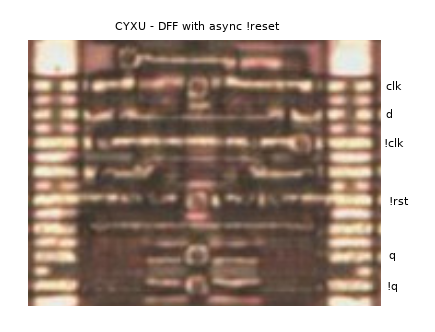
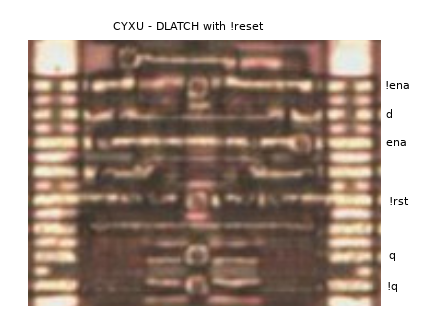
Fix description of latches and flip flops

Changed region(s): [[0.2391, 0.0602, 0.6575, 0.0904], [0.8667, 0.4217, 0.9563, 0.4518], [0.8667, 0.241, 0.9563, 0.2711]]

diff --git a/doc/dmg_cells.html b/doc/dmg_cells.html
@@ -120,12 +120,12 @@ all documented once and for all, to make life easier!</p>
  <li><a href="#ff">Storage elements</a>
   <ul>
    <li><a href="#srlatch">SR-LATCH</a></li>
-   <li><a href="#dlatch">DLATCH</a></li>
-   <li><a href="#dff">DFF</a></li>
+   <li><a href="#dlatch_a">D-LATCH - Variant A</a></li>
+   <li><a href="#dlatch_b">D-LATCH - Variant B</a></li>
+   <li><a href="#drlatch">DR-LATCH</a></li>
    <li><a href="#dffr_a">DFFR - Variant A</a></li>
    <li><a href="#dffr_b">DFFR - Variant B</a></li>
    <li><a href="#dffr_b2">DFFR - Variant B+</a></li>
-   <li><a href="#dffr_c">DFFR - Variant C</a></li>
    <li><a href="#dffsr">DFFSR</a></li>
    <li><a href="#tffd">TFFD</a></li>
   </ul>
@@ -738,30 +738,10 @@ just figured out the correct function of these cells.</p>
 <td>Inverted data output.</td></tr>
 </table></td></tr>
 </table>
-<h3 id="dlatch">DLATCH</h3>
+<h3 id="dlatch_a">D-LATCH - Variant A</h3>
 <p>Gated data latch.</p>
-<p>Name in <a href="https://github.com/furrtek/DMG-CPU-Inside">DMG-CPU-Inside</a>: LATCH</p>
-<table>
-<tr><td><img src="img/cells/zeca_desc.png" style="min-width:300px;" alt=""></td>
-<td><table class="default">
-<tr><th>I/O</th><th>Description</th></tr>
-<tr><td><i>d</i></td>
-<td>Data input.</td></tr>
-<tr><td><i>ena</i></td>
-<td>Active-high enable input. When high, the value at <i>d</i> transparently propagates through the latch. As soon
-as <i>ena</i> goes low, the output of the latch gets held at the level it had in that moment until <i>ena</i> goes
-high again.</td></tr>
-<tr><td><i>q</i></td>
-<td>Data output.</td></tr>
-<tr><td><i>!q</i></td>
-<td>Inverted data output.</td></tr>
-</table></td></tr>
-</table>
-<h3 id="dff">DFF</h3>
-<p>Single-edge-triggered data flip-flop.</p>
-<p>There are two clock inputs to this cell. They need to be inverted towards each other. There is usually an inverter
-cell nearby that generates the inverted clock. The flip-flop triggers on a positive edge of <i>clk</i> and a negative
-edge of <i>!clk</i>.</p>
+<p>There are two enable inputs to this cell. They need to be inverted towards each other. There is usually an inverter
+cell nearby that generates the inverted enable signal.</p>
 <p>There are instances of this cell that have their <i>!q</i> output stripped off. Those stripped cells can have an
 unrelated net run through the row where the <i>!q</i> output would have been. The cells named
 <a href="/dmg_cpu_b_map/?view=mytu">MYTU</a> and <a href="/dmg_cpu_b_map/?view=mofo">MOFO</a> are two
@@ -772,14 +752,13 @@ examples of that.</p>
 <td><table class="default">
 <tr><th>I/O</th><th>Description</th></tr>
 <tr><td><i>d</i></td>
-<td>Data input. Gets stored in the flip-flop on positive edge of <i>clk</i> and a simultanious negative edge
-of <i>!clk</i>.</td></tr>
-<tr><td><i>clk</i></td>
-<td>Positive clock input. On a positive edge the data input <i>d</i> gets stored in the flip-flop. There needs to be
-a negative edge on the <i>!clk</i> input at the same time.</td></tr>
-<tr><td><i>!clk</i></td>
-<td>Negative clock input. On a negative edge the data input <i>d</i> gets stored in the flip-flop. There needs to be
-a positive edge on the <i>clk</i> input at the same time.</td></tr>
+<td>Data input.</td></tr>
+<tr><td><i>ena</i></td>
+<td>Active-high enable input. When high, the value at <i>d</i> transparently propagates through the latch. As soon
+as <i>ena</i> goes low, the output of the latch gets held at the level it had in that moment until <i>ena</i> goes
+high again.</td></tr>
+<tr><td><i>!ena</i></td>
+<td>Active-low enable input. Must always be the inverse of <i>ena</i>.</td></tr>
 <tr><td><i>q</i></td>
 <td>Data output.</td></tr>
 <tr><td><i>!q</i></td>
@@ -961,29 +940,44 @@ a positive edge on the <i>clk</i> input at the same time.</td></tr>
 <a href="/dmg_cpu_b_map/?view=suny">SUNY</a>
 <a href="/dmg_cpu_b_map/?view=suto">SUTO</a>
 </p>
-<h3 id="dffr_a">DFFR - Variant A</h3>
-<p>Single-edge-triggered data flip-flop with active-low asynchronous reset.</p>
-<p>There are two clock inputs to this cell. They need to be inverted towards each other. There is usually an inverter
-cell nearby that generates the inverted clock. The flip-flop triggers on a positive edge of <i>clk</i> and a negative
-edge of <i>!clk</i>. It doesn't seem to matter which one of the two inputs gets slightly delayed by the inverter,
-it works both ways.</p>
-<p><i>TODO: Not really sure about clock input polarity.</i></p>
+<h3 id="dlatch_b">D-LATCH - Variant B</h3>
+<p>Gated data latch.</p>
+<p>Name in <a href="https://github.com/furrtek/DMG-CPU-Inside">DMG-CPU-Inside</a>: LATCH</p>
+<table>
+<tr><td><img src="img/cells/zeca_desc.png" style="min-width:300px;" alt=""></td>
+<td><table class="default">
+<tr><th>I/O</th><th>Description</th></tr>
+<tr><td><i>d</i></td>
+<td>Data input.</td></tr>
+<tr><td><i>ena</i></td>
+<td>Active-high enable input. When high, the value at <i>d</i> transparently propagates through the latch. As soon
+as <i>ena</i> goes low, the output of the latch gets held at the level it had in that moment until <i>ena</i> goes
+high again.</td></tr>
+<tr><td><i>q</i></td>
+<td>Data output.</td></tr>
+<tr><td><i>!q</i></td>
+<td>Inverted data output.</td></tr>
+</table></td></tr>
+</table>
+<h3 id="drlatch">DR-LATCH</h3>
+<p>Gated data latch with active-low reset.</p>
+<p>There are two enable inputs to this cell. They need to be inverted towards each other. There is usually an inverter
+cell nearby that generates the inverted enable signal.</p>
 <p>Name in <a href="https://github.com/furrtek/DMG-CPU-Inside">DMG-CPU-Inside</a>: DTFF</p>
 <table>
 <tr><td><img src="img/cells/cyxu_desc.png" style="min-width:300px;" alt=""></td>
 <td><table class="default">
 <tr><th>I/O</th><th>Description</th></tr>
 <tr><td><i>d</i></td>
-<td>Data input. Gets stored in the flip-flop on positive edge of <i>clk</i> and a simultanious negative edge
-of <i>!clk</i>.</td></tr>
-<tr><td><i>clk</i></td>
-<td>Positive clock input. On a positive edge the data input <i>d</i> gets stored in the flip-flop. There needs to be
-a negative edge on the <i>!clk</i> input at the same time.</td></tr>
-<tr><td><i>!clk</i></td>
-<td>Negative clock input. On a negative edge the data input <i>d</i> gets stored in the flip-flop. There needs to be
-a positive edge on the <i>clk</i> input at the same time.</td></tr>
+<td>Data input.</td></tr>
+<tr><td><i>ena</i></td>
+<td>Active-high enable input. When high, the value at <i>d</i> transparently propagates through the latch. As soon
+as <i>ena</i> goes low, the output of the latch gets held at the level it had in that moment until <i>ena</i> goes
+high again.</td></tr>
+<tr><td><i>!ena</i></td>
+<td>Active-low enable input. Must always be the inverse of <i>ena</i>.</td></tr>
 <tr><td><i>!rst</i></td>
-<td>Active-low reset input. Data inside the flip-flop gets reset to 0 when <i>!rst</i> is low.</td></tr>
+<td>Active-low reset input. Data inside the latch gets reset to 0 when <i>!rst</i> is low.</td></tr>
 <tr><td><i>q</i></td>
 <td>Data output.</td></tr>
 <tr><td><i>!q</i></td>
@@ -1229,6 +1223,69 @@ a positive edge on the <i>clk</i> input at the same time.</td></tr>
 <a href="/dmg_cpu_b_map/?view=zoly">ZOLY</a>
 <a href="/dmg_cpu_b_map/?view=zulu">ZULU</a>
 <a href="/dmg_cpu_b_map/?view=zyjo">ZYJO</a>
+</p>
+<h3 id="dffr_a">DFFR - Variant A</h3>
+<p>Single-edge-triggered data flip-flop with active-low asynchronous reset.</p>
+<p>There are two clock inputs to this cell. They need to be inverted towards each other. There is usually an inverter
+cell nearby that generates the inverted clock. The flip-flop triggers on a positive edge of <i>clk</i> and a negative
+edge of <i>!clk</i>.</p>
+<p>There is one external connection always made on this cell (see pink line in the picture) that seem to be
+necessary for it to work.</p>
+<p>This variant is similar to variant B, but it is missing the <i>!q</i> output. Furthermore, it is two rows shorter.</p>
+<p><i>TODO: Not really sure about clock input polarity.</i></p>
+<p>Name in <a href="https://github.com/furrtek/DMG-CPU-Inside">DMG-CPU-Inside</a>: DTFF</p>
+<table>
+<tr><td><img src="img/cells/poju_desc.png" style="min-width:300px;" alt=""></td>
+<td><table class="default">
+<tr><th>I/O</th><th>Description</th></tr>
+<tr><td><i>d</i></td>
+<td>Data input. Gets stored in the flip-flop on positive edge of <i>clk</i> and a simultanious negative edge
+of <i>!clk</i>.</td></tr>
+<tr><td><i>clk</i></td>
+<td>Positive clock input. On a positive edge the data input <i>d</i> gets stored in the flip-flop. There needs to be
+a negative edge on the <i>!clk</i> input at the same time.</td></tr>
+<tr><td><i>!clk</i></td>
+<td>Negative clock input. On a negative edge the data input <i>d</i> gets stored in the flip-flop. There needs to be
+a positive edge on the <i>clk</i> input at the same time.</td></tr>
+<tr><td><i>!rst</i></td>
+<td>Active-low reset input. Data inside the flip-flop gets reset to 0 when <i>!rst</i> is low. There are
+two <i>!rst</i> inputs to this cell, which are externally connected to each other (by the pink line in
+the picture).</td></tr>
+<tr><td><i>q</i></td>
+<td>Data output.</td></tr>
+</table></td></tr>
+</table>
+<p>Instances:
+<a href="/dmg_cpu_b_map/?view=defa">DEFA</a>
+<a href="/dmg_cpu_b_map/?view=dele">DELE</a>
+<a href="/dmg_cpu_b_map/?view=deva">DEVA</a>
+<a href="/dmg_cpu_b_map/?view=dexe">DEXE</a>
+<a href="/dmg_cpu_b_map/?view=dofy">DOFY</a>
+<a href="/dmg_cpu_b_map/?view=doly">DOLY</a>
+<a href="/dmg_cpu_b_map/?view=edok">EDOK</a>
+<a href="/dmg_cpu_b_map/?view=epyr">EPYR</a>
+<a href="/dmg_cpu_b_map/?view=eter">ETER</a>
+<a href="/dmg_cpu_b_map/?view=exap">EXAP</a>
+<a href="/dmg_cpu_b_map/?view=faxo">FAXO</a>
+<a href="/dmg_cpu_b_map/?view=galo">GALO</a>
+<a href="/dmg_cpu_b_map/?view=gele">GELE</a>
+<a href="/dmg_cpu_b_map/?view=gyme">GYME</a>
+<a href="/dmg_cpu_b_map/?view=hele">HELE</a>
+<a href="/dmg_cpu_b_map/?view=hopa">HOPA</a>
+<a href="/dmg_cpu_b_map/?view=hora">HORA</a>
+<a href="/dmg_cpu_b_map/?view=jape">JAPE</a>
+<a href="/dmg_cpu_b_map/?view=jete">JETE</a>
+<a href="/dmg_cpu_b_map/?view=jode">JODE</a>
+<a href="/dmg_cpu_b_map/?view=jyme">JYME</a>
+<a href="/dmg_cpu_b_map/?view=kare">KARE</a>
+<a href="/dmg_cpu_b_map/?view=poju">POJU</a>
+<a href="/dmg_cpu_b_map/?view=powy">POWY</a>
+<a href="/dmg_cpu_b_map/?view=poxa">POXA</a>
+<a href="/dmg_cpu_b_map/?view=pozo">POZO</a>
+<a href="/dmg_cpu_b_map/?view=pulo">PULO</a>
+<a href="/dmg_cpu_b_map/?view=pyju">PYJU</a>
+<a href="/dmg_cpu_b_map/?view=pyzo">PYZO</a>
+<a href="/dmg_cpu_b_map/?view=rawu">RAWU</a>
 </p>
 <h3 id="dffr_b">DFFR - Variant B</h3>
 <p>Single-edge-triggered data flip-flop with active-low asynchronous reset.</p>
@@ -1574,69 +1631,6 @@ the picture).</td></tr>
 <a href="/dmg_cpu_b_map/?view=xuva">XUVA</a>
 <a href="/dmg_cpu_b_map/?view=xydo">XYDO</a>
 <a href="/dmg_cpu_b_map/?view=yfel">YFEL</a>
-</p>
-<h3 id="dffr_c">DFFR - Variant C</h3>
-<p>Single-edge-triggered data flip-flop with active-low asynchronous reset.</p>
-<p>There are two clock inputs to this cell. They need to be inverted towards each other. There is usually an inverter
-cell nearby that generates the inverted clock. The flip-flop triggers on a positive edge of <i>clk</i> and a negative
-edge of <i>!clk</i>.</p>
-<p>There is one external connection always made on this cell (see pink line in the picture) that seem to be
-necessary for it to work.</p>
-<p>This variant is similar to variant B, but it is missing the <i>!q</i> output. Furthermore, it is two rows shorter.</p>
-<p><i>TODO: Not really sure about clock input polarity.</i></p>
-<p>Name in <a href="https://github.com/furrtek/DMG-CPU-Inside">DMG-CPU-Inside</a>: DTFF</p>
-<table>
-<tr><td><img src="img/cells/poju_desc.png" style="min-width:300px;" alt=""></td>
-<td><table class="default">
-<tr><th>I/O</th><th>Description</th></tr>
-<tr><td><i>d</i></td>
-<td>Data input. Gets stored in the flip-flop on positive edge of <i>clk</i> and a simultanious negative edge
-of <i>!clk</i>.</td></tr>
-<tr><td><i>clk</i></td>
-<td>Positive clock input. On a positive edge the data input <i>d</i> gets stored in the flip-flop. There needs to be
-a negative edge on the <i>!clk</i> input at the same time.</td></tr>
-<tr><td><i>!clk</i></td>
-<td>Negative clock input. On a negative edge the data input <i>d</i> gets stored in the flip-flop. There needs to be
-a positive edge on the <i>clk</i> input at the same time.</td></tr>
-<tr><td><i>!rst</i></td>
-<td>Active-low reset input. Data inside the flip-flop gets reset to 0 when <i>!rst</i> is low. There are
-two <i>!rst</i> inputs to this cell, which are externally connected to each other (by the pink line in
-the picture).</td></tr>
-<tr><td><i>q</i></td>
-<td>Data output.</td></tr>
-</table></td></tr>
-</table>
-<p>Instances:
-<a href="/dmg_cpu_b_map/?view=defa">DEFA</a>
-<a href="/dmg_cpu_b_map/?view=dele">DELE</a>
-<a href="/dmg_cpu_b_map/?view=deva">DEVA</a>
-<a href="/dmg_cpu_b_map/?view=dexe">DEXE</a>
-<a href="/dmg_cpu_b_map/?view=dofy">DOFY</a>
-<a href="/dmg_cpu_b_map/?view=doly">DOLY</a>
-<a href="/dmg_cpu_b_map/?view=edok">EDOK</a>
-<a href="/dmg_cpu_b_map/?view=epyr">EPYR</a>
-<a href="/dmg_cpu_b_map/?view=eter">ETER</a>
-<a href="/dmg_cpu_b_map/?view=exap">EXAP</a>
-<a href="/dmg_cpu_b_map/?view=faxo">FAXO</a>
-<a href="/dmg_cpu_b_map/?view=galo">GALO</a>
-<a href="/dmg_cpu_b_map/?view=gele">GELE</a>
-<a href="/dmg_cpu_b_map/?view=gyme">GYME</a>
-<a href="/dmg_cpu_b_map/?view=hele">HELE</a>
-<a href="/dmg_cpu_b_map/?view=hopa">HOPA</a>
-<a href="/dmg_cpu_b_map/?view=hora">HORA</a>
-<a href="/dmg_cpu_b_map/?view=jape">JAPE</a>
-<a href="/dmg_cpu_b_map/?view=jete">JETE</a>
-<a href="/dmg_cpu_b_map/?view=jode">JODE</a>
-<a href="/dmg_cpu_b_map/?view=jyme">JYME</a>
-<a href="/dmg_cpu_b_map/?view=kare">KARE</a>
-<a href="/dmg_cpu_b_map/?view=poju">POJU</a>
-<a href="/dmg_cpu_b_map/?view=powy">POWY</a>
-<a href="/dmg_cpu_b_map/?view=poxa">POXA</a>
-<a href="/dmg_cpu_b_map/?view=pozo">POZO</a>
-<a href="/dmg_cpu_b_map/?view=pulo">PULO</a>
-<a href="/dmg_cpu_b_map/?view=pyju">PYJU</a>
-<a href="/dmg_cpu_b_map/?view=pyzo">PYZO</a>
-<a href="/dmg_cpu_b_map/?view=rawu">RAWU</a>
 </p>
 <h3 id="dffsr">DFFSR</h3>
 <p>Positive-edge-triggered data flip-flop with active-low asynchronous set and reset.</p>
